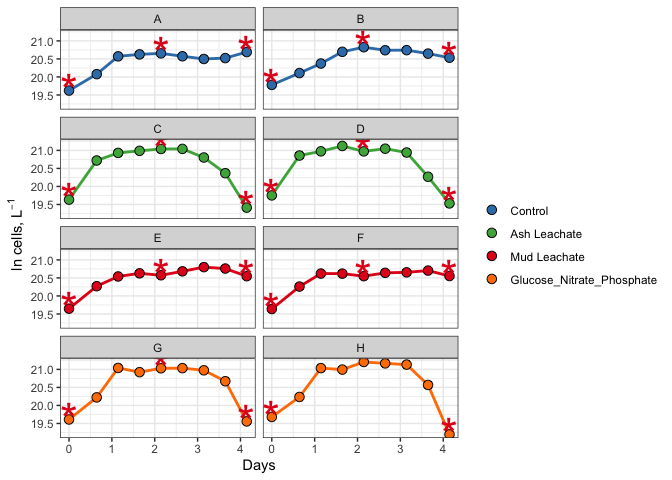
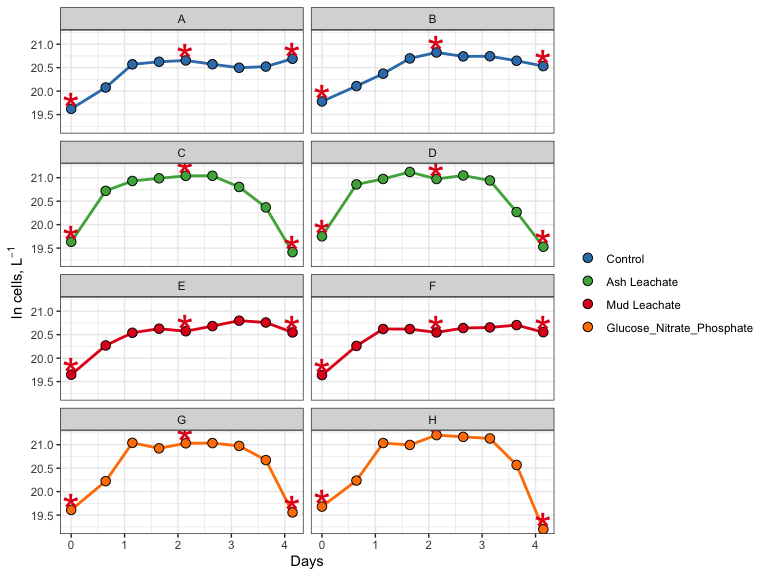
added 2021 data to week 4 folder

Changed region(s): [[0.0, 0.0, 1.0, 1.0], [0.7188, 0.6562, 0.75, 0.6875], [0.7188, 0.1562, 0.75, 0.1875]]

diff --git a/Scripts/211012_2018_abundance_demo.md b/Scripts/211012_2018_abundance_demo.md
@@ -221,11 +221,12 @@ glimpse(cells)
 
 We can calculate:
 
--total change in cells from initial condition to the end of the
-experiment. -specific growth rate as the slope of ln(abundance) v time
-during exponential growth phase -doubling time as ln(2) divided by the
-specific growth rate -mean of each of these parameters across each
-treatment
+-   total change in cells from initial condition to the end of the
+    experiment.
+-   specific growth rate as the slope of ln(abundance) v time during
+    exponential growth phase
+-   doubling time as ln(2) divided by the specific growth rate
+-   mean of each of these parameters across each treatment
 
 1st, we need to determine **where** exponential growth is ocurring in
 each of our bottles, if it does. To do this, we ’ll plot ln(abundance)
